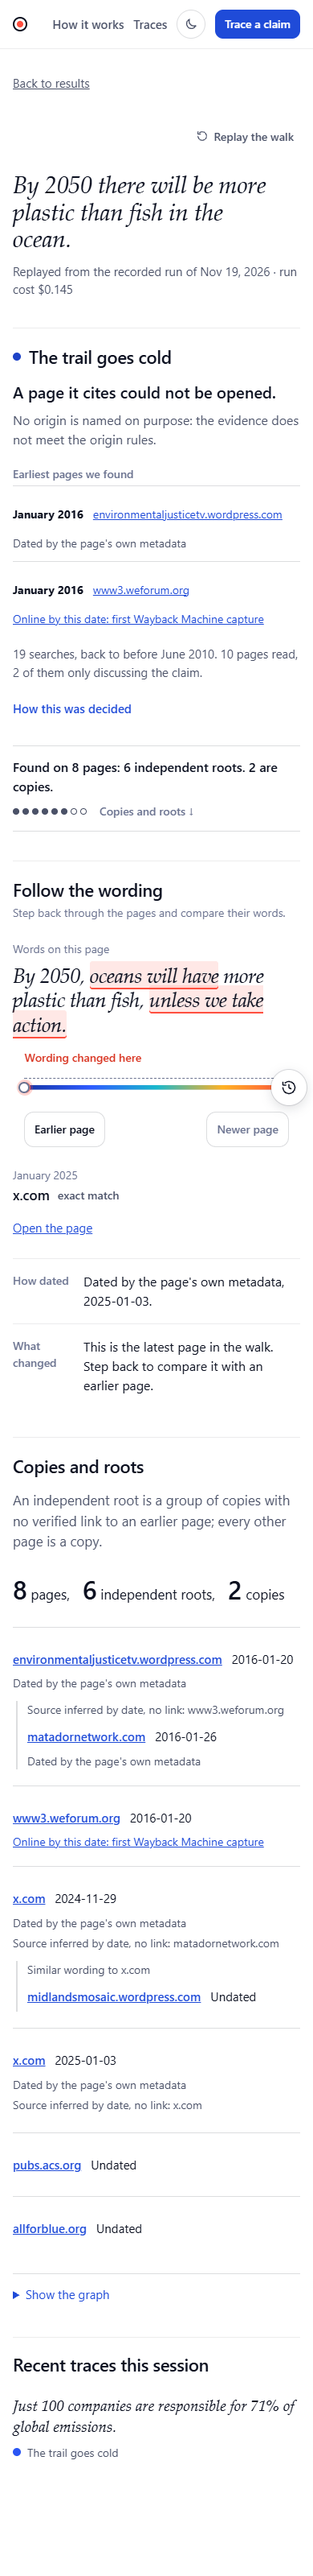
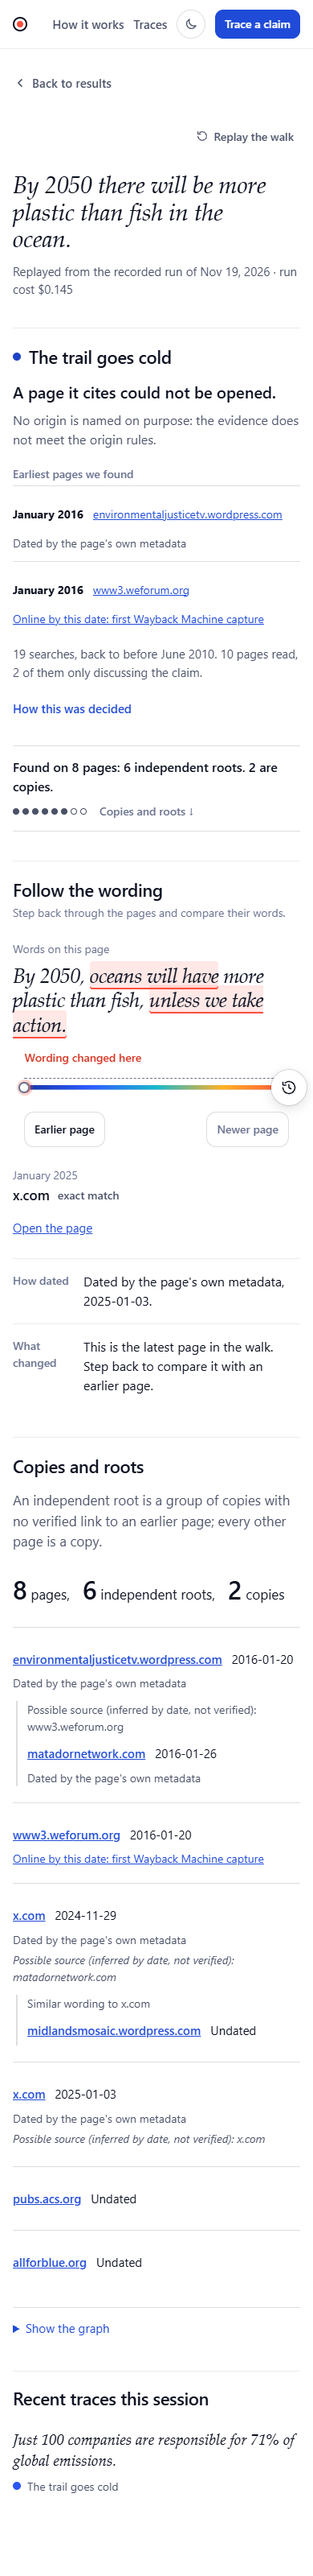
Back to results as a quiet text button with a chevron; a root's inferred source reads as a muted possible source, not verified

Changed region(s): [[0.0308, 0.6562, 0.6769, 0.9688], [0.6769, 0.75, 0.7385, 0.7812]]

diff --git a/apps/web/src/styles/app.css b/apps/web/src/styles/app.css
@@ -106,3 +106,14 @@ body { isolation: isolate; }
 .trace-page .stage .stop-title { font-size: 26px; font-weight: 600; letter-spacing: -0.015em; }
 @media (max-width: 600px) { .trace-page .stage .stop-title { font-size: 22px; } }
 @media (min-width: 601px) { .trace-page .stage-head { position: absolute; top: 0; right: 0; } }
+
+/* Back to results as a quiet text button (XO on #259): chevron, ink-2, no underline or chrome, darker on hover. */
+.trace-page .back { gap: 6px; min-height: 44px; padding: 0 8px 0 0; color: var(--ink-2); font-size: 15px; font-weight: 500; text-decoration: none; border-radius: 8px; }
+.trace-page .back:hover { color: var(--ink); }
+.trace-page .back:focus-visible { outline: 2px solid var(--action); outline-offset: 2px; }
+.back-chevron { width: 18px; height: 18px; fill: none; stroke: currentColor; stroke-width: 2; stroke-linecap: round; stroke-linejoin: round; transition: transform 150ms ease; }
+.trace-page .back:hover .back-chevron { transform: translateX(-2px); }
+@media (prefers-reduced-motion: reduce) { .back-chevron { transition: none; } }
+
+/* #259: an inferred link does not make a page a copy, so a root's possible source is muted, not a fact. */
+.root-relation.inferred { color: var(--ink-2); font-style: italic; }

diff --git a/apps/web/src/components/Roots.tsx b/apps/web/src/components/Roots.tsx
@@ -12,7 +12,7 @@ export function Roots({ trace }: { trace: Trace }) {
     <p className="roots-measure"><span><b>{counts.pages}</b> {counts.pages === 1 ? "page" : "pages"},</span>{" "}<span><b>{counts.independentRoots}</b> independent {counts.independentRoots === 1 ? "root" : "roots"},</span>{" "}<span><b>{counts.copies}</b> {counts.copies === 1 ? "copy" : "copies"}</span></p>
     <ul className="root-rows">{rows.map(row => <li key={row.node.id}>
       <div className="root-page"><PageReceipt page={row} /></div>
-      {row.inferred.map(text => <p className="root-relation" key={text}>{text}</p>)}
+      {row.inferred.map(text => <p className="root-relation inferred" key={text}>{text}</p>)}
       {row.copies.length > 0 && <ul className="root-copies">{row.copies.map(copy => <li key={copy.node.id}><p className="root-relation">{copy.relation}</p><div className="root-page"><PageReceipt page={copy} /></div></li>)}</ul>}
     </li>)}</ul>
     {unrooted.length > 0 && <div><p>Linked pages with no independent root</p>{unrooted.map(page => <div className="root-page" key={page.node.id}><PageReceipt page={page} /></div>)}</div>}

diff --git a/apps/web/src/model/roots.ts b/apps/web/src/model/roots.ts
@@ -36,7 +36,7 @@ export function rootRows(trace: Trace) {
   const relation = (node: Node, root: Node) => {
     const edge = trace.edges.find(e => e.childId === node.id && byId.has(e.parentId) && e.kind === "explicit")
       ?? trace.edges.find(e => e.childId === node.id && byId.has(e.parentId));
-    if (edge) return `${edge.kind === "explicit" ? "Links to" : "Source inferred by date, no link:"} ${new URL(byId.get(edge.parentId)!.url).host}`;
+    if (edge) return `${edge.kind === "explicit" ? "Links to" : "Possible source (inferred by date, not verified):"} ${new URL(byId.get(edge.parentId)!.url).host}`;
     const rule = trace.clusters.find(c => c.id === node.clusterId)?.rule;
     const label = rule === "versions" ? "Version of" : rule === "same_byline" ? "Shares a byline with" : rule === "near_duplicate" ? "Similar wording to" : "Copies wording from";
     return `${label} ${new URL(root.url).host}`;

diff --git a/apps/web/src/model/claimBox.test.tsx b/apps/web/src/model/claimBox.test.tsx
@@ -62,6 +62,6 @@ describe("the matched note", () => {
     expect(renderToStaticMarkup(<TraceRoute id="sample-rich" matched={false} all={traces} />)).not.toContain("Matched a");
     const live = renderToStaticMarkup(<TraceRoute id="live-x" matched all={[real]} />);
     expect(live).toContain("Matched a recorded trace, recorded November 17, 2026.");
-    expect(live).toContain('class="back" href="#/">Back to results</a>');
+    expect(live).toMatch(/class="back" href="#\/">.*Back to results<\/a>/);
   });
 });

diff --git a/apps/web/src/components/RouteExperience.tsx b/apps/web/src/components/RouteExperience.tsx
@@ -35,5 +35,5 @@ export function BackToResults() {
     const hash = target();
     navigation.restore = hash;
     window.location.hash = hash;
-  }}>Back to results</a>;
+  }}><svg className="back-chevron" viewBox="0 0 24 24" aria-hidden="true"><path d="M15 6l-6 6 6 6" /></svg>Back to results</a>;
 }
